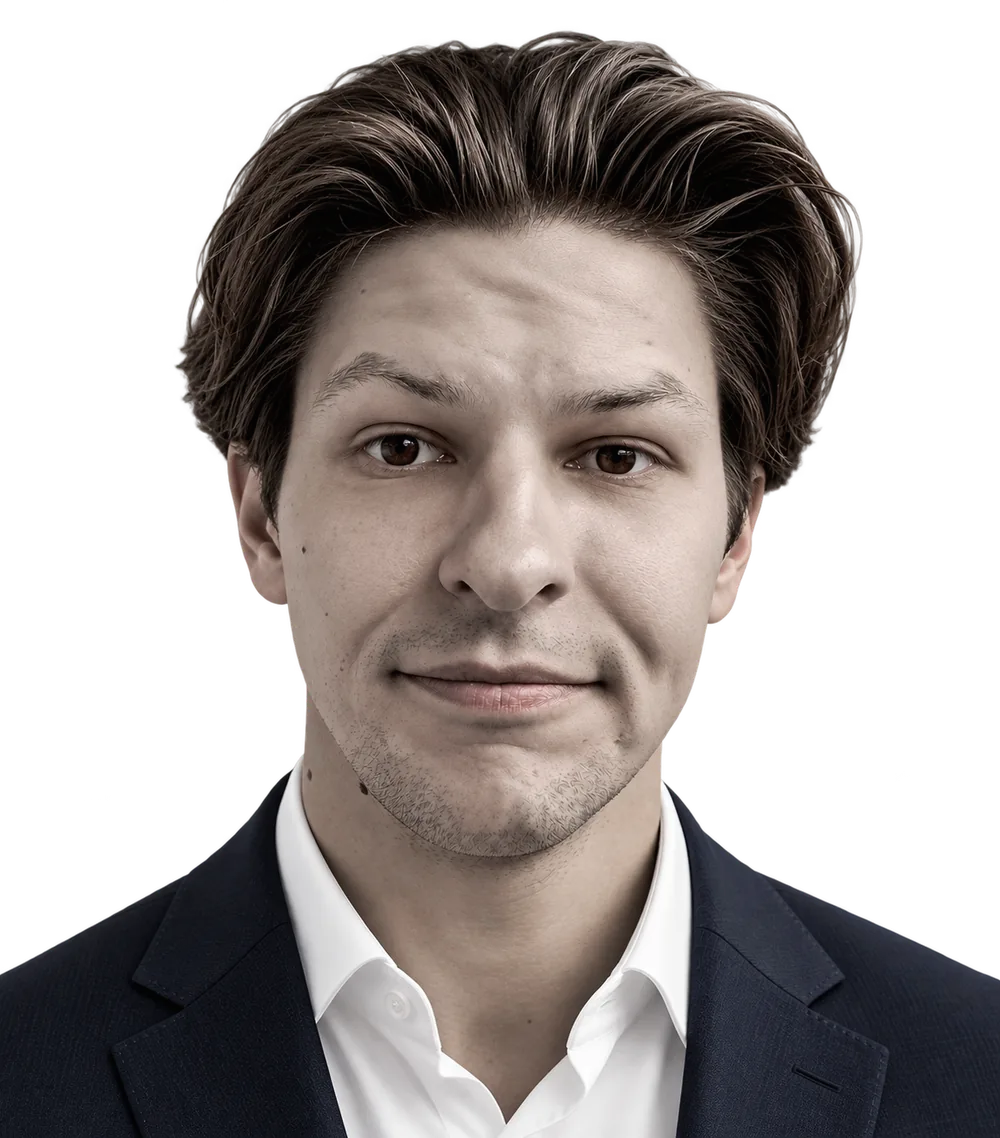
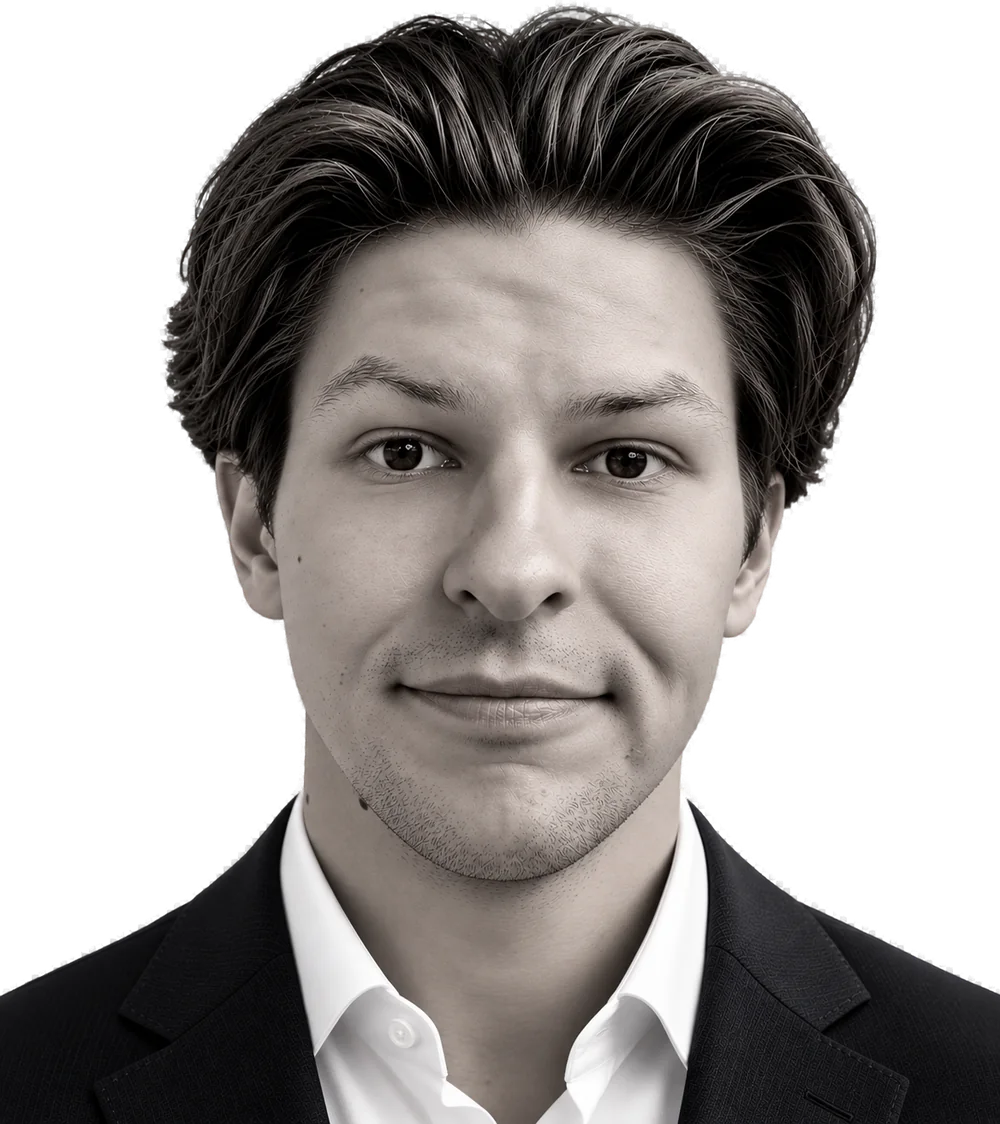
Neues Porträtfoto
Claude-Session: https://claude.ai/code/session_01RmFD4QAse8NiYqt7smXj2t

diff --git a/index.html b/index.html
@@ -44,13 +44,13 @@
   <section class="hero-scene" aria-label="Einleitung">
     <div class="hero">
       <div class="hero-base">
-        <img class="portrait" src="assets/hendrik.webp" alt="Porträt von Hendrik Generotzky" width="1000" height="1138" fetchpriority="high">
+        <img class="portrait" src="assets/hendrik.webp" alt="Porträt von Hendrik Generotzky" width="1000" height="1124" fetchpriority="high">
         <h1 class="hl hl-left"><span>Vom</span><span>Shop</span><span>Floor.</span></h1>
         <p class="hl hl-right" aria-hidden="true"><span>Zum</span><span>Knowledge</span><span>Graph.</span></p>
       </div>
 
       <div class="hero-ai" aria-hidden="true">
-        <img class="portrait portrait-ghost" src="assets/hendrik.webp" alt="" width="1000" height="1138">
+        <img class="portrait portrait-ghost" src="assets/hendrik.webp" alt="" width="1000" height="1124">
         <canvas class="graph"></canvas>
         <div class="artifacts"></div>
         <p class="hl hl-left"><span>Vom</span><span>Shop</span><span>Floor.</span></p>
